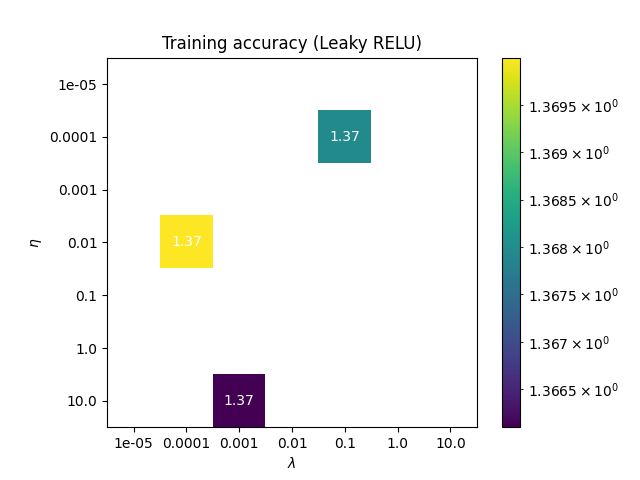
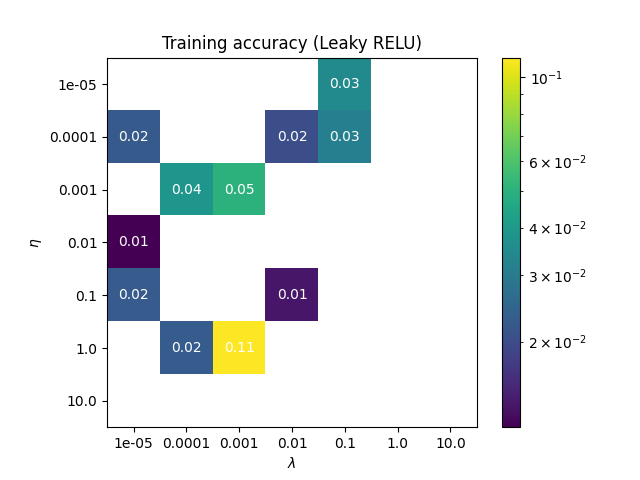
done some changes for part B and C, might need to do some changes on epochs plots aswell

diff --git a/src/FFNN.py b/src/FFNN.py
@@ -14,7 +14,7 @@ def accuracy_score_numpy(Y_test, Y_pred):
 
 
 class FeedForwardNeuralNetwork:
-    def __init__(self, X, Y, layers, n_categories = 1, batch_size = 100, eta = 0.1, lmbda = 0.0, epochs = 10, func=sigmoid, problem="regression"):
+    def __init__(self, X, Y, layers, n_categories = 1, batch_size = 5, eta = 0.1, lmbda = 0.0, epochs = 10, func=sigmoid, problem="regression"):
         self.X = X
         self.Y = Y
         self.func = func
@@ -177,16 +177,16 @@ class FeedForwardNeuralNetwork:
                 self.feed_forward()
                 self.backpropagation()
 
-def grid_search_hyperparameters(X, y, y_exact, layers, plot_title, func, n_categories = 1, batch_size = 10, epochs = 200, eta_vals = np.logspace(-5, 1, 7), lmd_vals = np.logspace(-5, 1, 7), verbose = False):
+def grid_search_hyperparameters(X_train, X_test, y_train, y_test, layers, plot_title, func, n_categories = 1, batch_size = 5, epochs = 5, eta_vals = np.logspace(-5, 1, 7), lmd_vals = np.logspace(-5, 1, 7), verbose = False):
 
     mse_values = np.zeros((len(eta_vals), len(lmd_vals)))
 
     for i, eta in enumerate(eta_vals):
         for j, lmd in enumerate(lmd_vals):
-            nn = FeedForwardNeuralNetwork(X, y, layers, n_categories, batch_size, epochs = epochs, eta = eta, lmbda = lmd, func = func)
+            nn = FeedForwardNeuralNetwork(X_train, y_train, layers, n_categories, batch_size, epochs = epochs, eta = eta, lmbda = lmd, func = func)
             nn.train()
-            y_tilde = nn.predict_probabilities(X)
-            mse = MSE(y_exact, y_tilde)
+            y_tilde = nn.predict_probabilities(X_test)
+            mse = MSE(y_test, y_tilde)
             mse_values[i, j] = mse
 
             if verbose:

diff --git a/src/PartC.py b/src/PartC.py
@@ -6,16 +6,21 @@ from sample_data import *
 
 
 if __name__ == "__main__":
+
     x, y, z = create_data_samples(DataSamplesType.TEST)
     X = create_design_matrix(x, y, 5)
-
     X_train, X_test, y_train, y_test = train_test_split(X, z.ravel(), test_size=0.2)
     y_train = y_train.reshape(-1, 1)
     y_test = y_test.reshape(-1, 1)
-    layers = [5, 4, 3]
-
-    grid_search_hyperparameters(X_train, y_train, y_train, layers, "Training accuracy (RELU)", relu)
-    epochs_plot(X_train, y_train, y_train, layers, "Epochs (RELU)", 50, 0.01, 0.01, relu)
+    layers = [10]
+    np.random.seed(40)
+    nn = FeedForwardNeuralNetwork(X_train, y_train, layers, eta=0.1, lmbda = 0.1, epochs=5, func=leaky_relu)
+    nn.train()
+    y_pred = nn.predict_probabilities(X_test)
+    print(MSE(y_test, y_pred))
     
-    grid_search_hyperparameters(X_train, y_train, y_train, layers, "Training accuracy (Leaky RELU)", leaky_relu)
-    epochs_plot(X, y_train, y_train, layers, "Epochs (Leaky RELU)", 50, 0.01, 0.01, leaky_relu)
+    grid_search_hyperparameters(X_train, X_test, y_train, y_test, layers, "Training accuracy (RELU)", relu, verbose=True)
+    #epochs_plot(X_train, y_train, y_train, layers, "Epochs (RELU)", 50, 0.01, 0.01, relu)
+    
+    grid_search_hyperparameters(X_train, X_test, y_train, y_test, layers, "Training accuracy (Leaky RELU)", leaky_relu, verbose=True)
+    #epochs_plot(X, y_train, y_train, layers, "Epochs (Leaky RELU)", 50, 0.01, 0.01, leaky_relu)

diff --git a/src/PartB.py b/src/PartB.py
@@ -15,9 +15,9 @@ if __name__ == "__main__":
     X_train, X_test, y_train, y_test = train_test_split(X, z.ravel(), test_size=0.2)
     y_train = y_train.reshape(-1, 1)
     y_test = y_test.reshape(-1, 1)
-    layers = [5, 4, 3]
+    layers = [10]
 
-    grid_search_hyperparameters(X_train, y_train, y_train, layers, "Training accuracy (sigmoid)", sigmoid)
+    grid_search_hyperparameters(X_train, X_test, y_train, y_test, layers, "Training accuracy (sigmoid)", sigmoid, verbose=True)
     epochs_plot(X_train, y_train, y_train, layers, "Epochs (sigmoid)", 50, 0.01, 0.01, sigmoid)
 
     nn = FeedForwardNeuralNetwork(X_train, y_train, layers, 1, 10, epochs=200, eta=0.01, lmbda=0.01)
